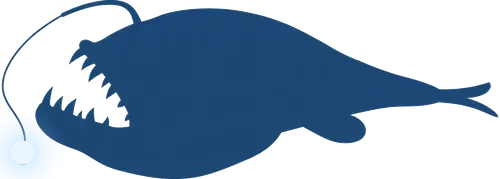
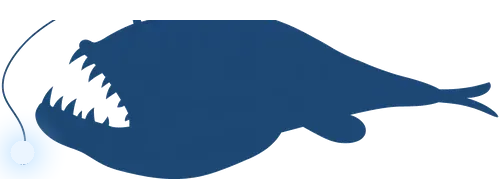
v2.7.5-beta fix (Mira re-review): clownfish out of ambient drift; THIRD TIME wording; anglerfish fringe cleaned

Changed region(s): [[0.09, 0.0, 0.57, 0.1117]]

diff --git a/test-suite.js b/test-suite.js
@@ -5931,6 +5931,14 @@ ok('WHATS_NEW has v1.7.23-beta', Array.isArray(WHATS_NEW['v1.7.23-beta']) && WHA
       surfaceDriftList("kelp").indexOf("otter") !== -1 &&
       surfaceDriftList("pelagic").indexOf("tuna") !== -1 &&
       surfaceDriftList("tropical").filter(function(c) { return c === "fish"; }).length === 5);
+    ok("v2.7.5-fix (Mira): clownfish is a scripted Indo-Pacific surface visitor only, never ambient drift",
+      Object.keys(BIOME_CREATURES).every(function(b) { return BIOME_CREATURES[b].indexOf("clownfish") === -1; }) &&
+      surfaceDriftList("tropical").indexOf("clownfish") === -1 &&
+      buildSightingDeck("surface", "philippines").pool.some(function(s) { return s.creature === "clownfish"; }) &&
+      buildSightingDeck("surface", "papua-new-guinea").pool.some(function(s) { return s.creature === "clownfish"; }) &&
+      buildSightingDeck("surface", "maldives").pool.some(function(s) { return s.creature === "clownfish"; }) &&
+      !buildSightingDeck("surface", "caribbean").pool.some(function(s) { return s.creature === "clownfish"; }) &&
+      !buildSightingDeck("reef", "philippines").pool.some(function(s) { return s.creature === "clownfish"; }));
     ok("slow shadows list covers the drifters and loungers, not the cruisers",
       ["jellyfish","mola","seahorse","manatee","snailfish","siphonophore","krill","anglerfish"].every(function(c) { return SLOW_CREATURES.indexOf(c) !== -1; }) &&
       ["fish","dolphin","turtle","tuna","shark:greatwhite"].every(function(c) { return SLOW_CREATURES.indexOf(c) === -1; }));

diff --git a/script.js b/script.js
@@ -2573,7 +2573,7 @@ function surfaceDriftList(biome) {
     .filter(function(c) { return REEF_RESIDENTS.indexOf(c) === -1; });
 }
 const BIOME_CREATURES = {
-  "tropical":  ["fish", "fish", "fish", "fish", "fish", "turtle", "dolphin", "ray", "mola", "moray", "clownfish", "parrotfish", "pufferfish", "lionfish"],
+  "tropical":  ["fish", "fish", "fish", "fish", "fish", "turtle", "dolphin", "ray", "mola", "moray", "parrotfish", "pufferfish", "lionfish"],
   "temperate": ["fish", "fish", "fish", "fish", "fish", "seal", "dolphin", "jellyfish", "mola", "seahorse", "pufferfish", "lionfish"],
   "kelp":      ["fish", "fish", "fish", "fish", "fish", "seal", "dolphin", "otter"],
   "pelagic":   ["fish", "fish", "fish", "fish", "fish", "dolphin", "jellyfish", "ray", "mola", "tuna"],
@@ -3533,7 +3533,7 @@ const RESIGHT_NOTES_2ND = [
 const RESIGHT_NOTES_3RD = [
   "THREE TIMES?! This shark is basically family now. I'm naming it in my head and you can't stop me.",
   "Okay, this is officially a friendship. Three re-sightings means it knows us. It KNOWS us!",
-  "THIRD TIME! I'm doing a little happy dance. This shark keeps coming back to say hi!",
+  "Third re-sighting! I'm doing a little happy dance. This shark keeps coming back to say hi!",
   "Three re-sightings of the same shark! Do you realize how special that is?? This one chose us!",
   /* v1.8.5-beta: more variants so repeats are rare. */
   "THREE! This shark is a regular now. I'm genuinely attached."
